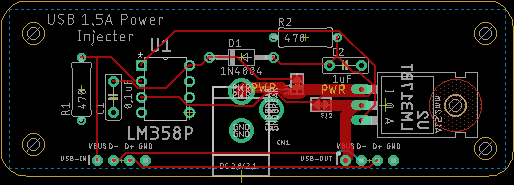
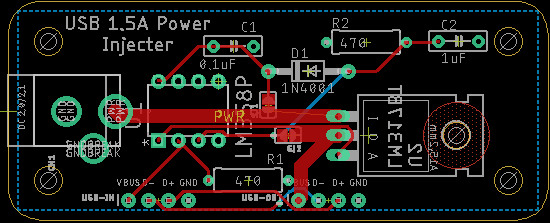
board reorg

diff --git a/README.md b/README.md
@@ -28,8 +28,6 @@ Unbuild and untested.
 
 A parts list is pending, plus a 3-D printed enclosure.
 
-I'll probably shuffle things around a bit to get the power connector closer to the voltage regulator, and have it pointed toward one of the ends so it won't be so awkward.
-
 ...
 
 ## Schematic and Board Images:
